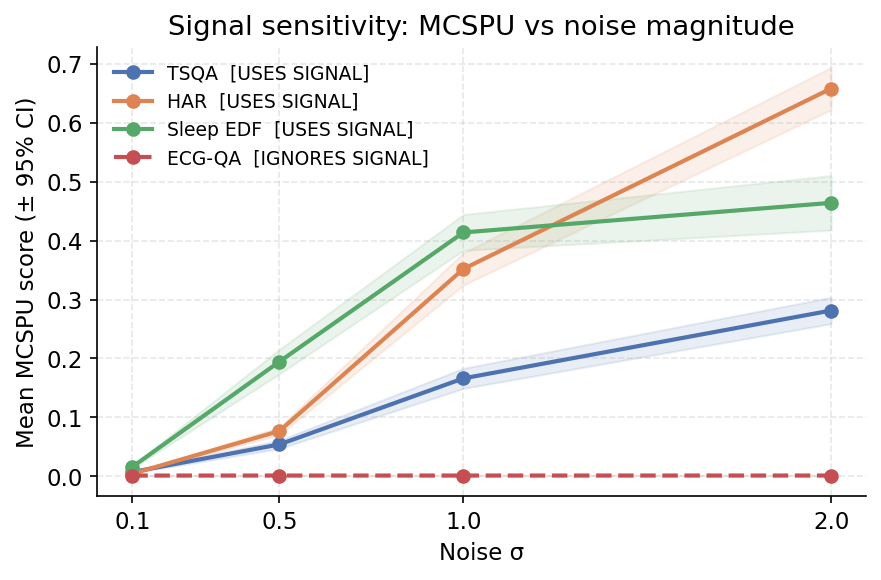
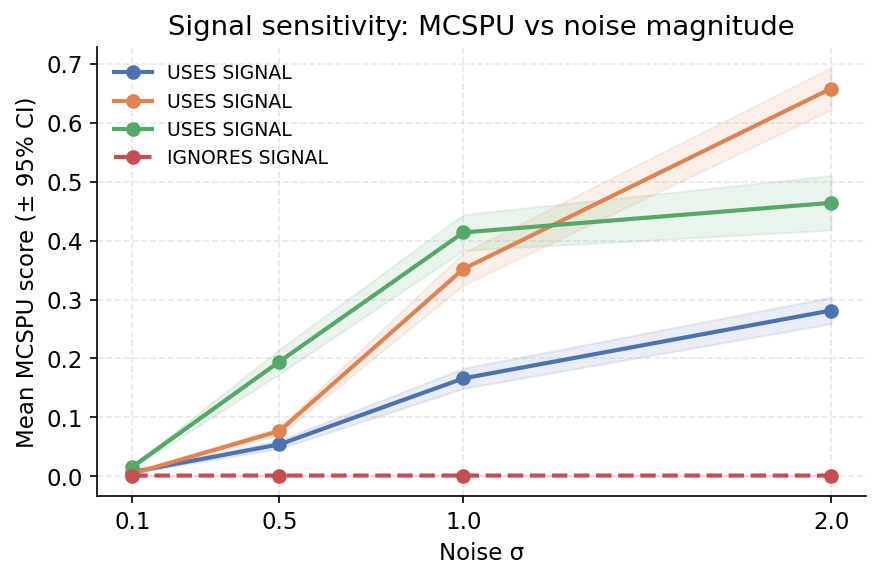
sanity tests refined

Changed region(s): [[0.1839, 0.0931, 0.4904, 0.3103]]

diff --git a/uncertainty_test.py b/uncertainty_test.py
@@ -23,6 +23,8 @@ Usage:
     python uncertainty_test.py --results_dir mcspu_results --out_dir plots
 """
 
+import matplotlib.patches as mpatches
+import matplotlib.pyplot as plt
 import argparse
 import json
 import sys
@@ -35,8 +37,6 @@ from scipy import stats
 
 import matplotlib
 matplotlib.use("Agg")
-import matplotlib.pyplot as plt
-import matplotlib.patches as mpatches
 
 # ---------------------------------------------------------------------------
 # Dataset registry
@@ -88,6 +88,7 @@ THRESHOLDS = {
 # Data structures
 # ---------------------------------------------------------------------------
 
+
 @dataclass
 class TestResult:
     name: str
@@ -127,6 +128,7 @@ class DatasetReport:
 # Data loading
 # ---------------------------------------------------------------------------
 
+
 def load_stage(results_dir: Path, stage_key: str) -> Optional[dict]:
     """Returns {sigma: [records]} or None if data is missing."""
     stage_dir = results_dir / stage_key
@@ -137,7 +139,8 @@ def load_stage(results_dir: Path, stage_key: str) -> Optional[dict]:
         path = stage_dir / f"sigma_{sigma}.jsonl"
         if not path.exists():
             continue
-        data[sigma] = [json.loads(l) for l in path.read_text().splitlines() if l.strip()]
+        data[sigma] = [json.loads(l)
+                       for l in path.read_text().splitlines() if l.strip()]
     return data if data else None
 
 
@@ -226,8 +229,10 @@ def _cohens_d(a: np.ndarray, b: np.ndarray) -> float:
 def _run_sensitivity(sigma_data: dict) -> List[TestResult]:
     results = []
 
-    scores_lo = np.array([r["mcspu_score"] for r in sigma_data.get(SIGMA_LO, [])])
-    scores_hi = np.array([r["mcspu_score"] for r in sigma_data.get(SIGMA_HI, [])])
+    scores_lo = np.array([r["mcspu_score"]
+                         for r in sigma_data.get(SIGMA_LO, [])])
+    scores_hi = np.array([r["mcspu_score"]
+                         for r in sigma_data.get(SIGMA_HI, [])])
 
     if len(scores_lo) == 0 or len(scores_hi) == 0:
         return results
@@ -260,7 +265,8 @@ def _run_sensitivity(sigma_data: dict) -> List[TestResult]:
 
     # 3. Statistical significance — one-sided Mann-Whitney U
     #    H₁: MCSPU scores at σ_hi are stochastically greater than at σ_lo
-    u_stat, p_val = stats.mannwhitneyu(scores_hi, scores_lo, alternative="greater")
+    u_stat, p_val = stats.mannwhitneyu(
+        scores_hi, scores_lo, alternative="greater")
     thr = THRESHOLDS["max_mannwhitney_p"]
     results.append(TestResult(
         name="statistical_significance",
@@ -292,11 +298,11 @@ def _run_sensitivity(sigma_data: dict) -> List[TestResult]:
 # Terminal report
 # ---------------------------------------------------------------------------
 
-_GREEN  = "\033[92m"
-_RED    = "\033[91m"
+_GREEN = "\033[92m"
+_RED = "\033[91m"
 _YELLOW = "\033[93m"
-_RESET  = "\033[0m"
-_BOLD   = "\033[1m"
+_RESET = "\033[0m"
+_BOLD = "\033[1m"
 
 
 def _colored(text: str, color: str) -> str:
@@ -327,12 +333,15 @@ def print_report(reports: List[DatasetReport]) -> int:
 
     for i, name in enumerate(sanity_names):
         row = f"  {name:{col_w}s}  "
-        row += "  ".join(f"{_pass_str(r.sanity[i].passed):>10}" for r in reports)
+        row += "  ".join(
+            f"{_pass_str(r.sanity[i].passed):>10}" for r in reports)
         print(row)
 
     # ── Sensitivity tests table ─────────────────────────────────────────────
-    sensitivity_names = [t.name for t in reports[0].sensitivity] if reports else []
-    col_w2 = max(len(n) for n in sensitivity_names) + 2 if sensitivity_names else 30
+    sensitivity_names = [
+        t.name for t in reports[0].sensitivity] if reports else []
+    col_w2 = max(len(n) for n in sensitivity_names) + \
+        2 if sensitivity_names else 30
     print(f"\n{_BOLD}SIGNAL SENSITIVITY TESTS{_RESET}")
     print(f"  Expected to PASS: TSQA, HAR, Sleep EDF  |  Expected to FAIL: ECG-QA")
     print(f"  {'Test':{col_w2}s}  {header_cols}")
@@ -340,7 +349,8 @@ def print_report(reports: List[DatasetReport]) -> int:
 
     for i, name in enumerate(sensitivity_names):
         row = f"  {name:{col_w2}s}  "
-        row += "  ".join(f"{_pass_str(r.sensitivity[i].passed):>10}" for r in reports)
+        row += "  ".join(
+            f"{_pass_str(r.sensitivity[i].passed):>10}" for r in reports)
         print(row)
 
     # ── Threshold reference ─────────────────────────────────────────────────
@@ -353,9 +363,11 @@ def print_report(reports: List[DatasetReport]) -> int:
 
     # ── Per-model metric table ──────────────────────────────────────────────
     print(f"\n{'─'*70}")
-    print(f"{'Metric values at σ={lo} vs σ={hi}':}".format(lo=SIGMA_LO, hi=SIGMA_HI))
+    print(f"{'Metric values at σ={lo} vs σ={hi}':}".format(
+        lo=SIGMA_LO, hi=SIGMA_HI))
     print(f"{'─'*70}")
-    header = f"  {'Metric':<30}  " + "  ".join(f"{r.label:>10}" for r in reports)
+    header = f"  {'Metric':<30}  " + \
+        "  ".join(f"{r.label:>10}" for r in reports)
     print(header)
     for i, name in enumerate(sensitivity_names):
         vals = "  ".join(f"{r.sensitivity[i].metric:>10.4f}" for r in reports)
@@ -379,7 +391,7 @@ def print_report(reports: List[DatasetReport]) -> int:
 
         uses = r.sensitivity_passed()
         signal_str = (
-            _colored("USES SIGNAL",    _GREEN)  if uses else
+            _colored("USES SIGNAL",    _GREEN) if uses else
             _colored("IGNORES SIGNAL", _RED)
         )
         print(f"  {r.label:<12}  {signal_str:<30}  {verdict}")
@@ -388,7 +400,8 @@ def print_report(reports: List[DatasetReport]) -> int:
     if unexpected == 0:
         print(_colored("  All outcomes match expectations.  Exit 0.", _GREEN))
     else:
-        print(_colored(f"  {unexpected} unexpected outcome(s).  Exit 1.", _RED))
+        print(
+            _colored(f"  {unexpected} unexpected outcome(s).  Exit 1.", _RED))
     print()
 
     return 1 if unexpected > 0 else 0
@@ -422,14 +435,14 @@ def _plot_test_results(reports: List[DatasetReport], out_dir: Path):
     Sanity tests and signal sensitivity tests in two row groups.
     Green = PASS, red = FAIL, with cell annotations.
     """
-    all_tests   = [("sanity", t) for t in reports[0].sanity] + \
-                  [("sensitivity", t) for t in reports[0].sensitivity]
+    all_tests = [("sanity", t) for t in reports[0].sanity] + \
+        [("sensitivity", t) for t in reports[0].sensitivity]
     test_labels = [t.name.replace("_", "\n") for _, t in all_tests]
-    ds_labels   = [r.label for r in reports]
-    n_tests     = len(all_tests)
-    n_ds        = len(ds_labels)
+    ds_labels = [r.label for r in reports]
+    n_tests = len(all_tests)
+    n_ds = len(ds_labels)
 
-    matrix  = np.zeros((n_tests, n_ds))
+    matrix = np.zeros((n_tests, n_ds))
     for j, rep in enumerate(reports):
         for i, (cat, _) in enumerate(all_tests):
             tests = rep.sanity if cat == "sanity" else rep.sensitivity
@@ -482,22 +495,23 @@ def _plot_sensitivity_metrics(reports: List[DatasetReport], out_dir: Path):
     for col, test_idx in enumerate(range(n)):
         ax = axes[col]
         test_name = reports[0].sensitivity[test_idx].name
-        thr       = reports[0].sensitivity[test_idx].threshold
-        op        = reports[0].sensitivity[test_idx].op
-        unit      = reports[0].sensitivity[test_idx].unit
+        thr = reports[0].sensitivity[test_idx].threshold
+        op = reports[0].sensitivity[test_idx].op
+        unit = reports[0].sensitivity[test_idx].unit
 
-        labels  = [r.label for r in reports]
+        labels = [r.label for r in reports]
         metrics = [r.sensitivity[test_idx].metric for r in reports]
-        passed  = [r.sensitivity[test_idx].passed  for r in reports]
+        passed = [r.sensitivity[test_idx].passed for r in reports]
         colours = [PALETTE[l] for l in labels]
-        alphas  = [0.9 if p else 0.5 for p in passed]
+        alphas = [0.9 if p else 0.5 for p in passed]
 
         bars = ax.bar(range(len(labels)), metrics, color=colours, alpha=0.85)
         for bar, alpha in zip(bars, alphas):
             bar.set_alpha(alpha)
 
         # threshold line
-        ax.axhline(thr, color="black", linewidth=1.5, linestyle="--", label=f"threshold ({thr})")
+        ax.axhline(thr, color="black", linewidth=1.5,
+                   linestyle="--", label=f"threshold ({thr})")
 
         ax.set_xticks(range(len(labels)))
         ax.set_xticklabels(labels, rotation=25, ha="right", fontsize=9)
@@ -543,7 +557,7 @@ def _plot_sigma_sweep(reports: List[DatasetReport],
         xs, ys, cis = np.array(xs), np.array(ys), np.array(cis)
         verdict = "USES SIGNAL" if rep.sensitivity_passed() else "IGNORES SIGNAL"
         linestyle = "-" if rep.sensitivity_passed() else "--"
-        ax.plot(xs, ys, marker="o", label=f"{rep.label}  [{verdict}]",
+        ax.plot(xs, ys, marker="o", label=f"{verdict}",
                 color=colour, linewidth=2, linestyle=linestyle)
         ax.fill_between(xs, ys - cis, ys + cis, alpha=0.12, color=colour)
 
@@ -568,7 +582,8 @@ def _save(fig, stem: Path):
 # ---------------------------------------------------------------------------
 
 def main():
-    parser = argparse.ArgumentParser(description="MCSPU uncertainty test suite")
+    parser = argparse.ArgumentParser(
+        description="MCSPU uncertainty test suite")
     parser.add_argument("--results_dir", default="mcspu_results", type=Path)
     parser.add_argument("--out_dir",     default="plots",         type=Path)
     args = parser.parse_args()
@@ -588,7 +603,8 @@ def main():
             continue
         sigma_data_all[stage_key] = sdata
         n_samples = sum(len(v) for v in sdata.values())
-        print(f"  {meta['label']:<12}  {len(sdata)} sigma files  ({n_samples} total records)")
+        print(
+            f"  {meta['label']:<12}  {len(sdata)} sigma files  ({n_samples} total records)")
 
         report = DatasetReport(
             stage_key=stage_key,

diff --git a/opentslm_uncertainty_test.py b/opentslm_uncertainty_test.py
@@ -117,7 +117,8 @@ def _add_noise(sample: Dict[str, Any], sigma: float, rng: np.random.Generator) -
 
 def _kl(p: torch.Tensor, q: torch.Tensor, eps: float = 1e-10) -> float:
     p, q = p.float(), q.float()
-    return float(torch.sum(p * (torch.log(p + eps) - torch.log(q + eps))).item())
+    # clamp: fp32 arithmetic can produce tiny negatives (~1e-7) that aren't real
+    return float(max(0.0, torch.sum(p * (torch.log(p + eps) - torch.log(q + eps))).item()))
 
 
 def _get_logprobs(model, sample: Dict[str, Any], vocab: List[str],
@@ -543,8 +544,9 @@ def plot_test_metrics(reports, sigma_lo, sigma_hi, out_dir):
         metrics = [r.sensitivity[col].metric for r in reports]
         passed = [r.sensitivity[col].passed for r in reports]
         colours = [PALETTE[r.label] for r in reports]
-        ax.bar(range(len(reports)), metrics, color=colours,
-               alpha=[0.9 if p else 0.5 for p in passed])
+        bars = ax.bar(range(len(reports)), metrics, color=colours)
+        for bar, p in zip(bars, passed):
+            bar.set_alpha(0.9 if p else 0.5)
         ax.axhline(t0.threshold, color="black", linewidth=1.5,
                    linestyle="--", label=f"threshold={t0.threshold}")
         ax.set_xticks(range(len(reports)))